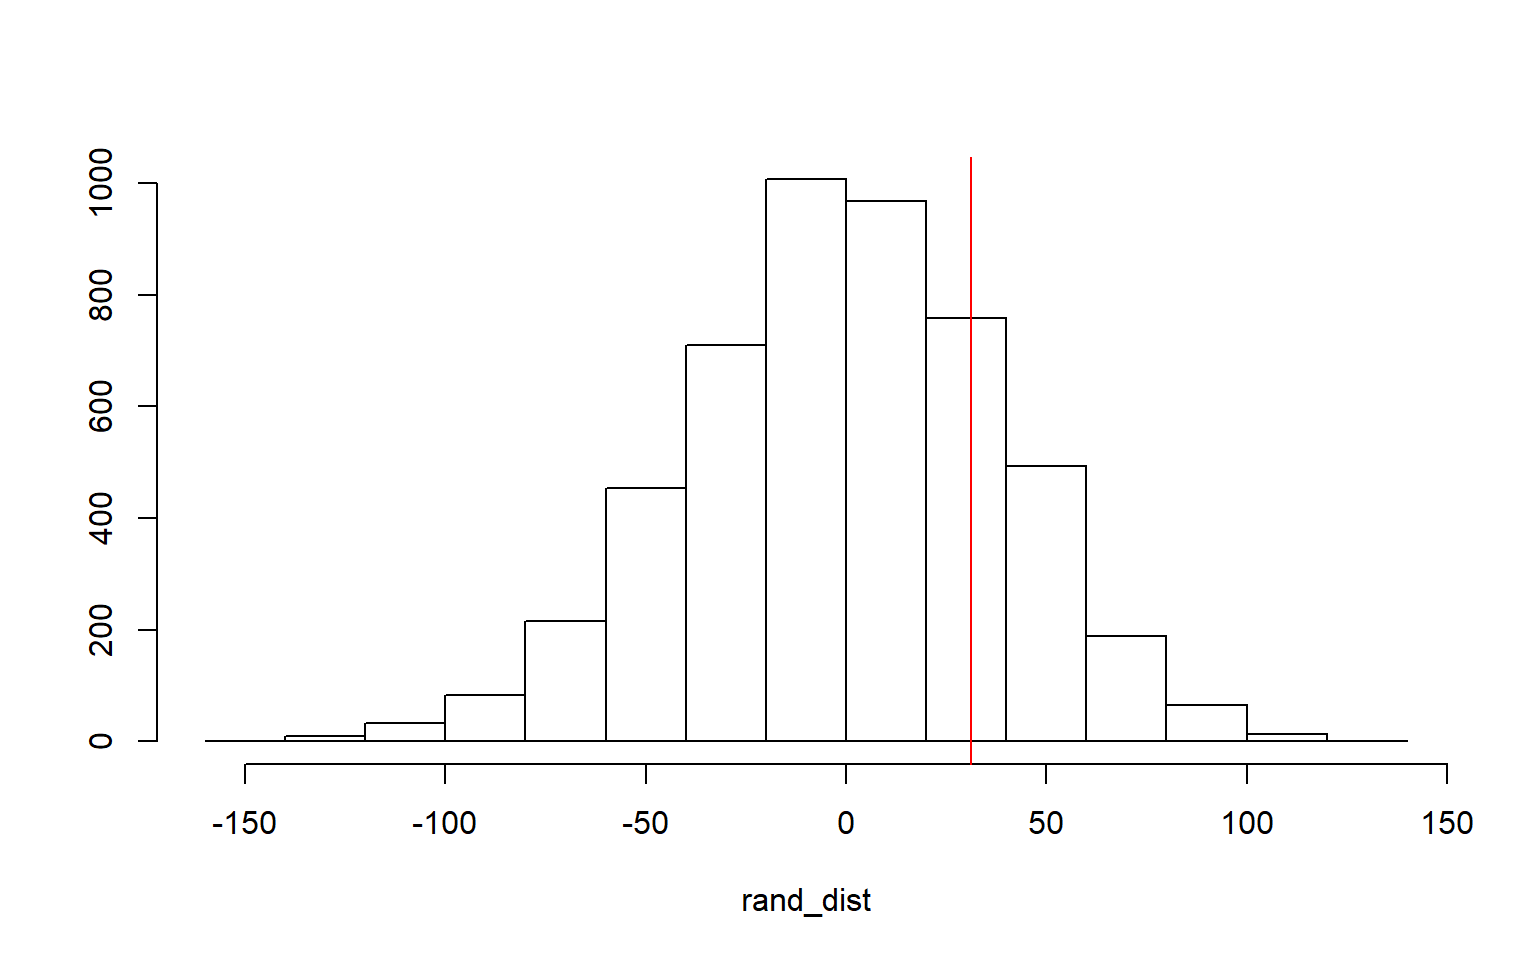
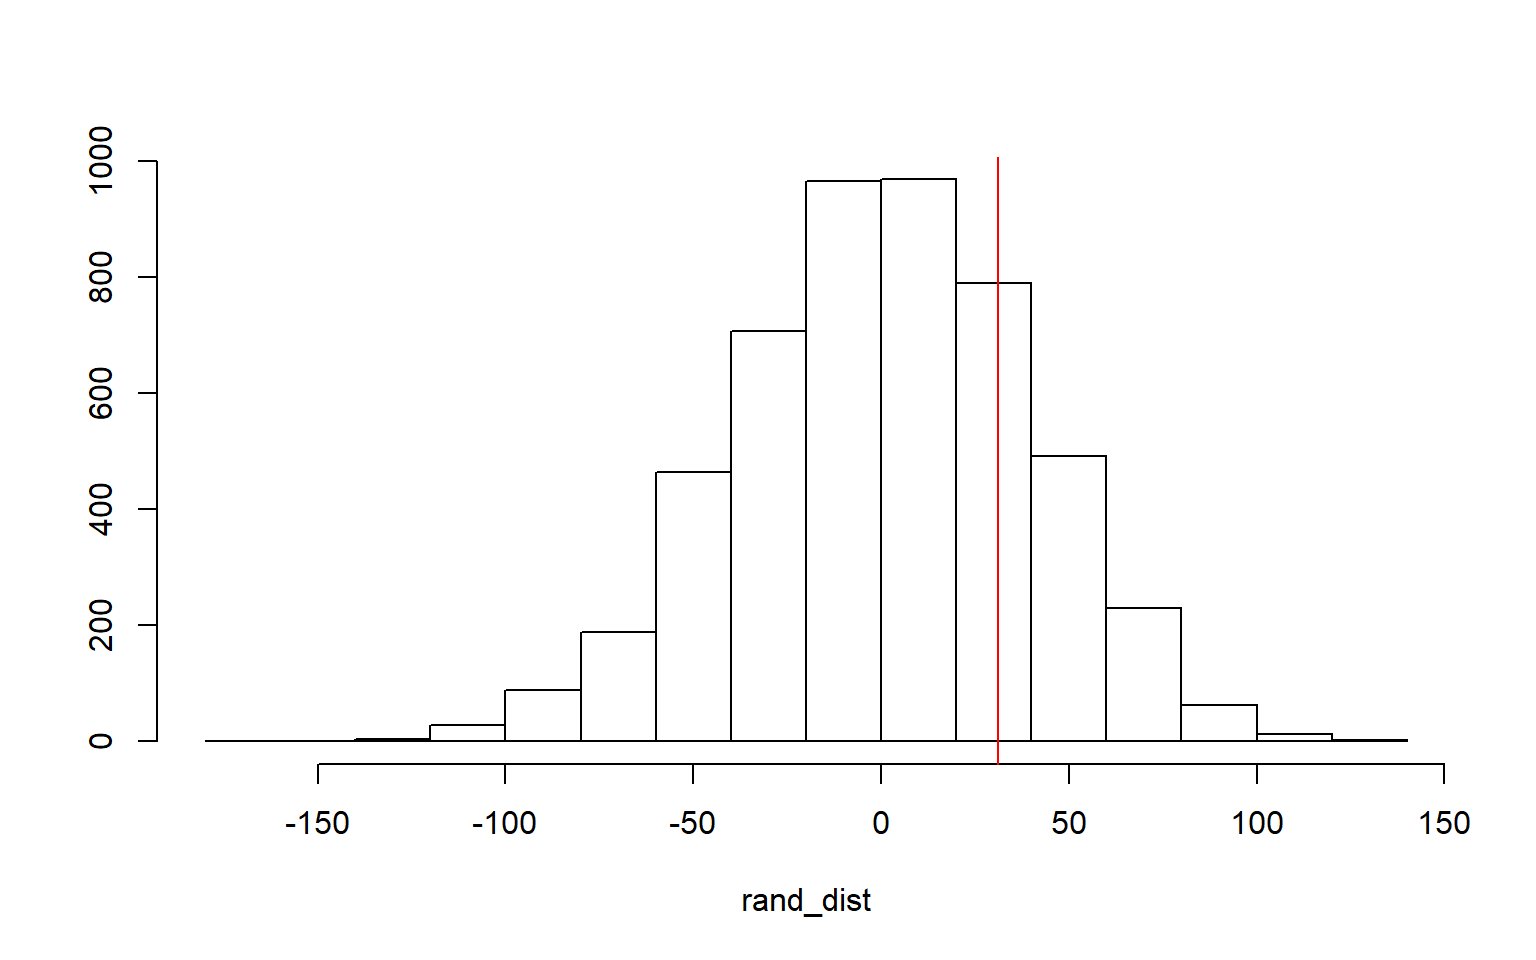
you must include a message

diff --git a/content/Project2.html b/content/Project2.html
@@ -1,7 +1,7 @@
 ---
 title: "Modeling, Inference, Prediction"
 author: "Kaleb Combs kec2746"
-date: "11/17/2019"
+date: "11-17-2019"
 output: html_document
 ---
 
@@ -136,7 +136,7 @@ for(i in 1:5000){
 {hist(rand_dist,main=&quot;&quot;,ylab=&quot;&quot;); abline(v = 31.1,col=&quot;red&quot;)}</code></pre>
 <p><img src="/Project2_files/figure-html/unnamed-chunk-3-1.png" width="768" style="display: block; margin: auto;" /></p>
 <pre class="r"><code>mean(rand_dist&gt;31.1)*2</code></pre>
-<pre><code>## [1] 0.4232</code></pre>
+<pre><code>## [1] 0.444</code></pre>
 <pre class="r"><code>t.test(data=Aids2, length~sex)</code></pre>
 <pre><code>## 
 ##  Welch Two Sample t-test
@@ -207,7 +207,7 @@ ggplot()+geom_point(aes(fitvals,resids))+geom_hline(yintercept=0, col=&quot;red&
 })
 samp_distn%&gt;%t%&gt;%as.data.frame%&gt;%summarize_all(sd)</code></pre>
 <pre><code>##   (Intercept)     sexM    age_c sexM:age_c
-## 1    46.21861 46.70819 2.541707   2.653606</code></pre>
+## 1     45.7383 46.09238 2.544229   2.650561</code></pre>
 <p>In comparison to the original SEs, the bootstrapped SEs have all increased. This should be expected since the p-value has also increased. As we randomly sample with replacement, we move closer to the true popoulation parameter. In comparison to the robust SEs, two values increased and two values decreased.</p>
 <p>Earlier, we found that age was a significant predictor for variation in length of life among men and women. Given the importance of age in patient outcome, can this variable be used in addition to transmission category to successfully classify patient status? Logistic regression can be used to model the probability of survival given T.categ and age as predictors by categorizing patients who fall above a threshold of .5 as “A” (alive) and those who do not as “D” (dead).</p>
 <pre class="r"><code>Aids2%&gt;%mutate(y=ifelse(status==&quot;A&quot;,1,0))-&gt;Aids2

diff --git a/public/project2/index.html b/public/project2/index.html
@@ -201,7 +201,7 @@ for(i in 1:5000){
 {hist(rand_dist,main=&quot;&quot;,ylab=&quot;&quot;); abline(v = 31.1,col=&quot;red&quot;)}</code></pre>
 <p><img src="/Project2_files/figure-html/unnamed-chunk-3-1.png" width="768" style="display: block; margin: auto;" /></p>
 <pre class="r"><code>mean(rand_dist&gt;31.1)*2</code></pre>
-<pre><code>## [1] 0.4232</code></pre>
+<pre><code>## [1] 0.444</code></pre>
 <pre class="r"><code>t.test(data=Aids2, length~sex)</code></pre>
 <pre><code>## 
 ##  Welch Two Sample t-test
@@ -272,7 +272,7 @@ ggplot()+geom_point(aes(fitvals,resids))+geom_hline(yintercept=0, col=&quot;red&
 })
 samp_distn%&gt;%t%&gt;%as.data.frame%&gt;%summarize_all(sd)</code></pre>
 <pre><code>##   (Intercept)     sexM    age_c sexM:age_c
-## 1    46.21861 46.70819 2.541707   2.653606</code></pre>
+## 1     45.7383 46.09238 2.544229   2.650561</code></pre>
 <p>In comparison to the original SEs, the bootstrapped SEs have all increased. This should be expected since the p-value has also increased. As we randomly sample with replacement, we move closer to the true popoulation parameter. In comparison to the robust SEs, two values increased and two values decreased.</p>
 <p>Earlier, we found that age was a significant predictor for variation in length of life among men and women. Given the importance of age in patient outcome, can this variable be used in addition to transmission category to successfully classify patient status? Logistic regression can be used to model the probability of survival given T.categ and age as predictors by categorizing patients who fall above a threshold of .5 as “A” (alive) and those who do not as “D” (dead).</p>
 <pre class="r"><code>Aids2%&gt;%mutate(y=ifelse(status==&quot;A&quot;,1,0))-&gt;Aids2

diff --git a/content/blog/2019-12-15-python.html b/content/blog/2019-12-15-python.html
@@ -10,13 +10,13 @@ description: ''
 
 
 
-<p>Recent python work:</p>
+<p>Python is the world’s most popular programming language that can be used to accomplish a variety of different tasks such as machine learning, artificial intelligence, web development, data analysis, and much more!</p>
+<p>Genomic analysis is yet another example of a task made easier through the use of python. If, for instance, someone were conducting research on a gene related to the development of cancer and wanted to learn more about its protein composition, the function below demonstrates that python can not only list the number of unique codons within each sequence, but indicate the frequency of each codon occurrence. Pretty helpful!</p>
 <pre class="python"><code>my_seq1 = &quot;ATCATCATG&quot;
 my_seq2 = &quot;CAGCCCAATCAGGCTCTACTGCCACTAAACTTACGCAGGATATATTTACGCCGACGTACT&quot;
 
 def mers(sequence):
         hold = {}
-        
         for i in range(len(sequence) - 1):
             if sequence[i:i + 3] in hold:
                 hold[sequence[i:i +3]] +=1

diff --git a/public/blog/python/index.html b/public/blog/python/index.html
@@ -72,13 +72,13 @@
               
 
 
-<p>Recent python work:</p>
+<p>Python is the world’s most popular programming language that can be used to accomplish a variety of different tasks such as machine learning, artificial intelligence, web development, data analysis, and much more!</p>
+<p>Genomic analysis is yet another example of a task made easier through the use of python. If, for instance, someone were conducting research on a gene related to the development of cancer and wanted to learn more about its protein composition, the function below demonstrates that python can not only list the number of unique codons within each sequence, but indicate the frequency of each codon occurrence. Pretty helpful!</p>
 <pre class="python"><code>my_seq1 = &quot;ATCATCATG&quot;
 my_seq2 = &quot;CAGCCCAATCAGGCTCTACTGCCACTAAACTTACGCAGGATATATTTACGCCGACGTACT&quot;
 
 def mers(sequence):
         hold = {}
-        
         for i in range(len(sequence) - 1):
             if sequence[i:i + 3] in hold:
                 hold[sequence[i:i +3]] +=1

diff --git a/content/Project1.html b/content/Project1.html
@@ -1,7 +1,7 @@
 ---
 title: "Exploratory Data Analysis"
 author: "Kaleb Combs kec2746"
-date: "10/19/2019"
+date: "10-19-2019"
 output: html_document
 ---
 
